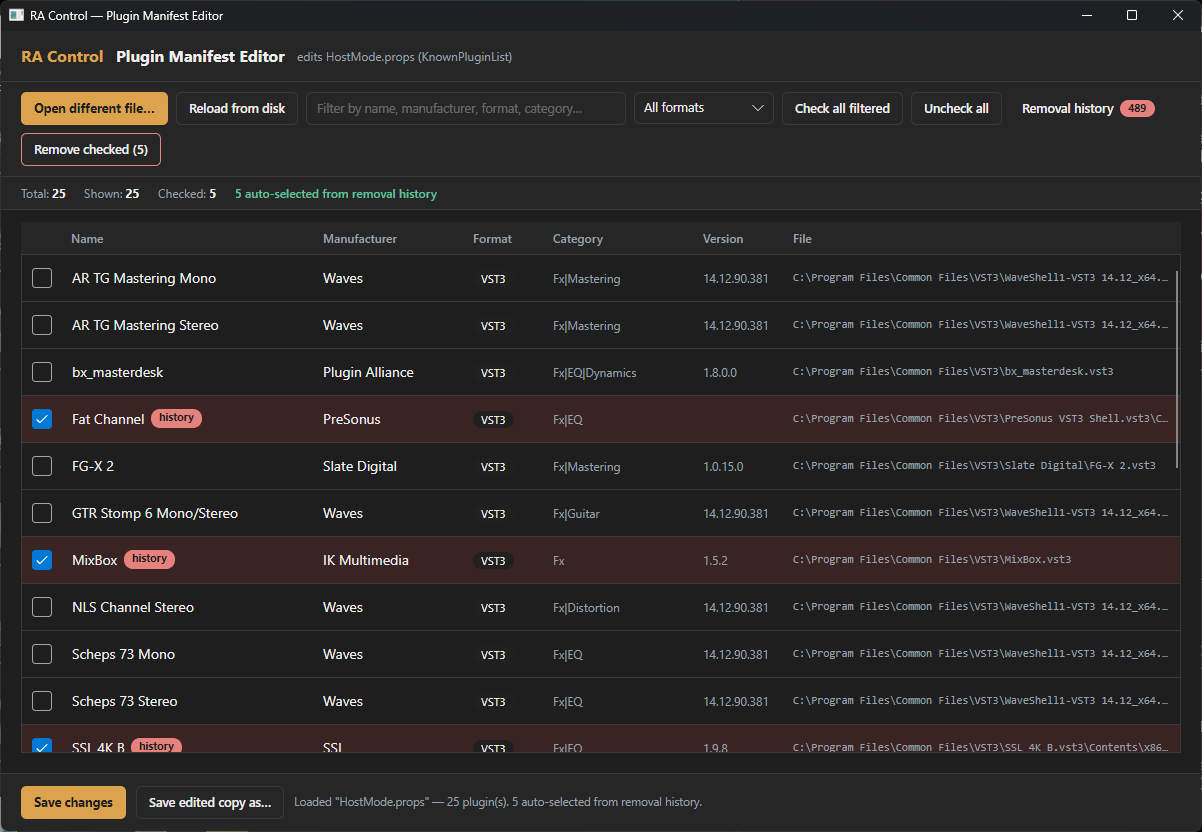
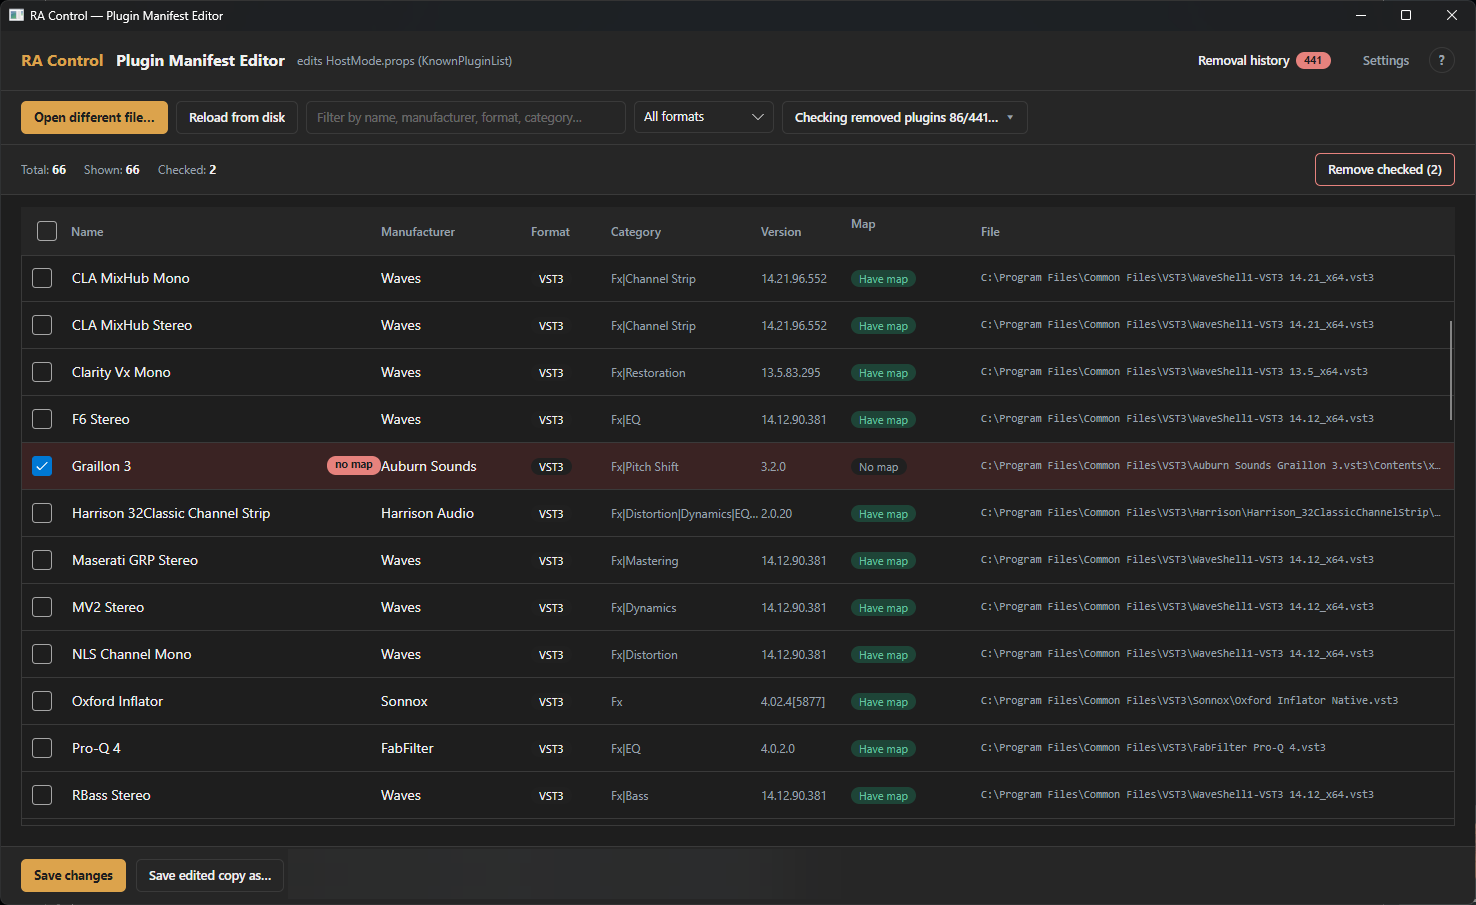
Stop documenting the live/API feature; hide its token field behind an undocumented flag
Removed all mention of RA Control's API from the in-app Help panel
and toolbar tooltips - offline map checking is still described
normally, but live checking, downloads, and tokens are no longer
mentioned anywhere a normal user would see. README already had no
API mentions.

The API token field in Settings is now hidden unless the app is
launched with an undocumented --live-token flag. A token already
saved from a previous session keeps working regardless (live check,
download-all, and the previously-removed-plugin restore prompt all
still function normally) - the flag only gates whether the field
itself is visible to view/edit/clear.

Also updates docs/screenshot.png to the current UI.

Claude-Session: https://claude.ai/code/session_01KumNBK74YFbqSuz9M2q7xE

diff --git a/ViewModels/MainViewModel.cs b/ViewModels/MainViewModel.cs
@@ -126,6 +126,16 @@ public partial class MainViewModel : ViewModelBase
     [ObservableProperty]
     public partial string? ApiToken { get; set; }
 
+    // Undocumented on purpose - not mentioned in README or the in-app Help. Keeps the token
+    // field itself out of Settings for anyone who hasn't been told this flag exists;
+    // launching normally (e.g. via the desktop shortcut) never surfaces it. A token already
+    // saved from a previous session still works and still drives CanLiveCheck below
+    // regardless of this flag - only the ability to view/edit/clear it via Settings is gated.
+    private static readonly bool LiveTokenFieldUnlocked =
+        Environment.GetCommandLineArgs().Any(a => string.Equals(a, "--live-token", StringComparison.OrdinalIgnoreCase));
+
+    public bool CanConfigureLiveToken => LiveTokenFieldUnlocked;
+
     [ObservableProperty]
     public partial bool IsLiveChecking { get; set; }
 
